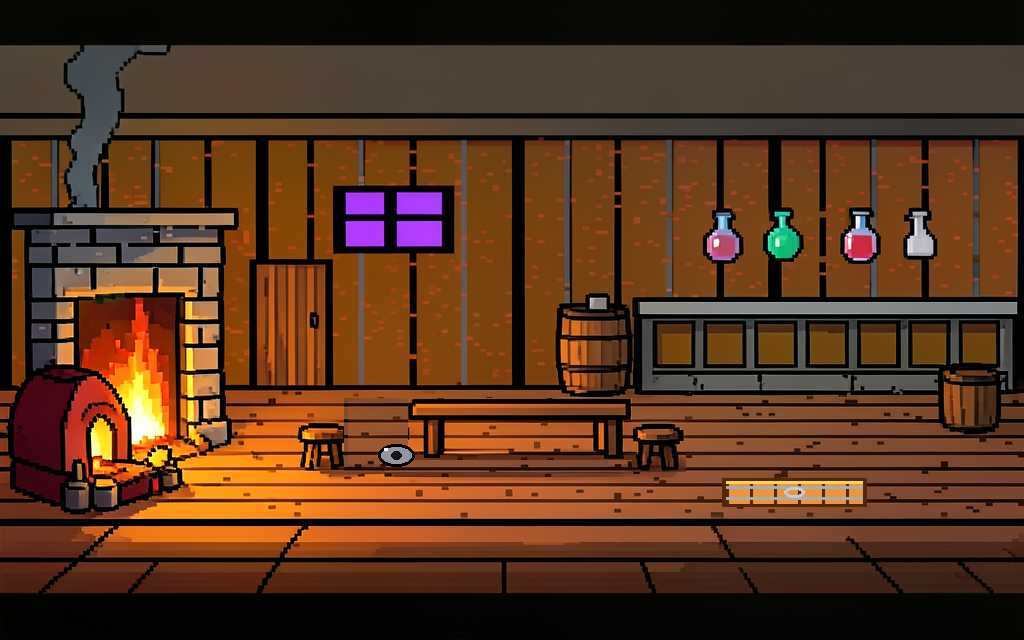
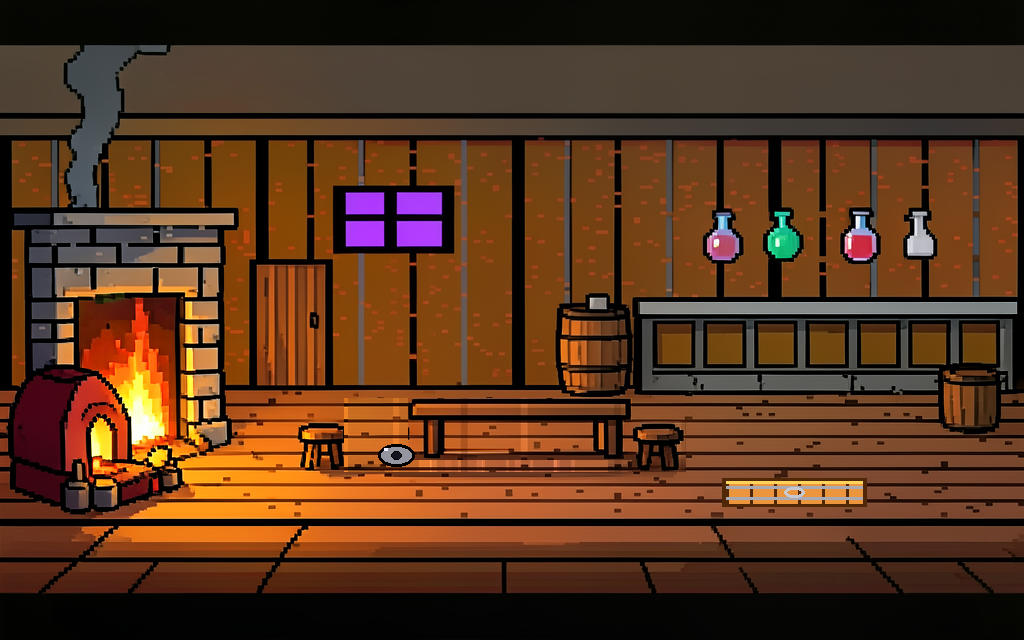
Ziensteen verdwijnt na Pak (patch steen_weg); terugkeer van de baas-toets via zwart; tests zonder VICE-venster

Changed region(s): [[0.3125, 0.625, 0.5938, 0.75]]

diff --git a/tools/flux_patches.py b/tools/flux_patches.py
@@ -16,6 +16,7 @@ herberg:  data/flux/herberg_bron.png (zoals FLUX hem maakte) ->
                              naar de kelder rechtsvoor in de vloer
     herberg_zonder_kruik.png zonder de kruik: de plankenmuur erachter
     herberg_tafel_weg.png    de tafel (met de rechterkruk) opzij geschoven; waar hij stond ligt de ziensteen
+    herberg_zonder_steen.png hetzelfde zonder de ziensteen (de patch steen_weg: Pak ziensteen)
 """
 import os, sys
 from PIL import Image, ImageDraw
@@ -23,8 +24,8 @@ from PIL import Image, ImageDraw
 WORTEL = os.path.dirname(os.path.dirname(os.path.abspath(__file__)))
 FLUX = os.path.join(WORTEL, "data", "flux")
 
-KRUIK = (898, 205, 946, 266)
-MUUR_Y = 145                          # vanaf hier is de muur boven de kruik schoon (onder de donkere rand bij de balk)          # de vierde fles aan de muur (kamer VAK 139,28 8,20)
+KRUIK = (898, 205, 946, 266)          # de vierde fles aan de muur: de kruik (kamer VAK 139,28 8,20)
+MUUR_Y = 145                          # vanaf hier is de muur boven de kruik schoon (onder de donkere rand bij de balk)
 TAFEL = (348, 398, 572, 460)          # tafelblad en poten
 KRUK_R = (572, 421, 626, 472)         # de rechterkruk
 OPZIJ = 60                            # zoveel bronpixels schuift de tafel naar rechts (≈ 9 kamerpixels)
@@ -72,7 +73,8 @@ def verlicht(p, van, naar):
     return tuple(min(255, int(p[c] * naar[c] / van[c])) for c in range(3))
 
 
-def tafel_weg(im):
+def tafel_weg(im, met_steen=True):
+    """De tafel (met de rechterkruk) een stuk naar rechts; waar hij stond ligt de ziensteen (of, na Pak, niets)."""
     bron = im.copy()
     px, b = im.load(), bron.load()
     licht = vloerlicht(bron, *VLOER_RIJEN)
@@ -89,47 +91,13 @@ def tafel_weg(im):
         for y in range(y1, y2):
             for x in range(x1, x2):
                 px[x + OPZIJ, y] = verlicht(b[x, y], licht[x], licht[x + OPZIJ])
-    # de ziensteen (kamer VAK 58,103 8,7)
-
-
-def kruik_grijs(im):
-    """Cyaan -> grijs steengoed: de helderheid blijft, de kleur gaat eraf (zwarte lijnen blijven zwart)."""
-    px = im.load()
-    x1, y1, x2, y2 = KRUIK
-    for y in range(y1, y2):
-        for x in range(x1, x2):
-            r, g, b = px[x, y]
-            if b > r + 30 and g > r + 20:                   # cyaan / lichtblauw
-                v = (r + g + b) // 3
-                px[x, y] = (v, v, min(255, v + 8))
-    return im
-
-
-def zonder_kruik(im):
-    """Elke kolom van de kruik krijgt de muur erboven (zelfde kolom: de plankenlijnen lopen door)."""
-    x1, y1, x2, y2 = KRUIK
-    stuk = im.crop((x1, MUUR_Y, x2, MUUR_Y + y2 - y1))
-    im.paste(stuk, (x1, y1))
-    return im
-
-
-def tafel_weg(im):
-    bron = im.copy()
-    px, b = im.load(), bron.load()
-    # eerst de tafel en de rechterkruk weg: elke rij vol vloer uit het schone stuk (de planken lopen horizontaal)
-    w = VLOER_SCHOON[1] - VLOER_SCHOON[0]
-    for y in range(TAFEL[1], KRUK_R[3]):
-        for x in range(TAFEL[0] - 4, KRUK_R[2] + 2):
-            px[x, y] = b[VLOER_SCHOON[0] + (x - TAFEL[0]) % w, y]
-    # dan tafel en kruk een stuk naar rechts (met hun eigen stukje vloer: dezelfde rijen, dus het past)
-    im.paste(bron.crop(TAFEL), (TAFEL[0] + OPZIJ, TAFEL[1]))
-    im.paste(bron.crop(KRUK_R), (KRUK_R[0] + OPZIJ, KRUK_R[1]))
     # de ziensteen: een gladde grijze steen met een gat erin en een glimlichtje
-    d = ImageDraw.Draw(im)
-    x1, y1, x2, y2 = STEEN
-    d.ellipse((x1, y1, x2, y2), fill=(150, 150, 160), outline=(0, 0, 0), width=3)
-    d.ellipse((x1 + 13, y1 + 7, x1 + 23, y1 + 15), fill=(20, 20, 30), outline=(0, 0, 0))
-    d.rectangle((x1 + 6, y1 + 4, x1 + 9, y1 + 6), fill=(240, 240, 255))
+    if met_steen:
+        d = ImageDraw.Draw(im)
+        x1, y1, x2, y2 = STEEN
+        d.ellipse((x1, y1, x2, y2), fill=(150, 150, 160), outline=(0, 0, 0), width=3)
+        d.ellipse((x1 + 13, y1 + 7, x1 + 23, y1 + 15), fill=(20, 20, 30), outline=(0, 0, 0))
+        d.rectangle((x1 + 6, y1 + 4, x1 + 9, y1 + 6), fill=(240, 240, 255))
     return im
 
 
@@ -157,7 +125,8 @@ def herberg():
     basis.save(os.path.join(FLUX, "herberg.png"))
     zonder_kruik(basis.copy()).save(os.path.join(FLUX, "herberg_zonder_kruik.png"))
     tafel_weg(basis.copy()).save(os.path.join(FLUX, "herberg_tafel_weg.png"))
-    print("[patches] herberg: herberg.png, herberg_zonder_kruik.png, herberg_tafel_weg.png")
+    tafel_weg(basis.copy(), met_steen=False).save(os.path.join(FLUX, "herberg_zonder_steen.png"))
+    print("[patches] herberg: herberg.png, herberg_zonder_kruik.png, herberg_tafel_weg.png, herberg_zonder_steen.png")
 
 
 HONINGPOT = (918, 245, 972, 293)      # de ronde gele pot met deksel, rechts op de onderste plank

diff --git a/tools/vicetest.py b/tools/vicetest.py
@@ -249,6 +249,8 @@ class Vice:
             args.append("-busdevice8")           # virtueel apparaat 8: het spel laadt zelf kamers (Kernal LOAD)
         if warp:
             args.append("-warp")
+        if not zichtbaar_houden:
+            args.append("-console")              # geen venster: de test pakt de focus niet af (macOS)
         args += ["-autostart", d64]
         # Eigen procesgroep: bin/x64sc start op macOS een kindproces. Bij het stoppen sluiten we alleen
         # deze groep af, nooit andere VICE's.

diff --git a/docs/LOGBOEK.md b/docs/LOGBOEK.md
@@ -686,3 +686,18 @@ is daarop aangepast (niet vastgelegd: hun bestand, hun branch; een kopie van de 
 stond met zijn rug naar je toe. De zon in de schemer was niet helemaal gevuld: het witte glimlicht maakte van één
 vakje van 4 x 8 vier kleuren (lucht, geel, oranje, wit), de omzetter liet er een weg en dat werd later paars. Het
 glimlicht is eruit, en de kleurwissels van de zon gelden nu ook voor de punten van de stralen (x 60-99).
+
+## 2026-11-13 — Ziensteen weg na Pak, nette terugkeer van de baas-toets, tests zonder venster
+
+- **De ziensteen bleef op de vloer liggen** na Pak: de patch tafel_weg tekent hem. Nu een kleine patch `steen_weg`
+  (56,96,12,16; `herberg_zonder_steen.png`) bij Pak ziensteen en in BINNENKOMST (na tafel_weg). Daarbij
+  `tools/flux_patches.py` opgeruimd: er stonden twee versies van tafel_weg in (Python nam de laatste, zonder de
+  lichtcorrectie van de vloer); nu één, met de lichtcorrectie, met of zonder steen.
+- **Terug van het rekenblad was het scherm even rommel** (de letters van het rekenblad als kleuren, tot de kamer weer
+  uitgepakt was). Nu gaat het beeld eerst op zwart (`scherm_uit`: de IRQ's schrijven $d011 uit twee variabelen,
+  bit 4 uit), wordt alles hersteld, en pas als BINNENKOMST klaar is gaat het beeld weer aan.
+- **De tests draaien VICE zonder venster** (`-console`): ze pakken de focus niet meer af en na afloop spring je niet
+  meer naar het bureaublad. De screenshots werken gewoon (pixel voor pixel). Met `--houd-open` krijg je het venster.
+
+**Getest:** gesprek.band (Pak ziensteen, opzij lopen, screenshot: de vloer is leeg), menu.band (scherm_uit_teller = 1
+bij de terugkeer, daarna weer aan). 23/23 compiler, 17/17 banden.
